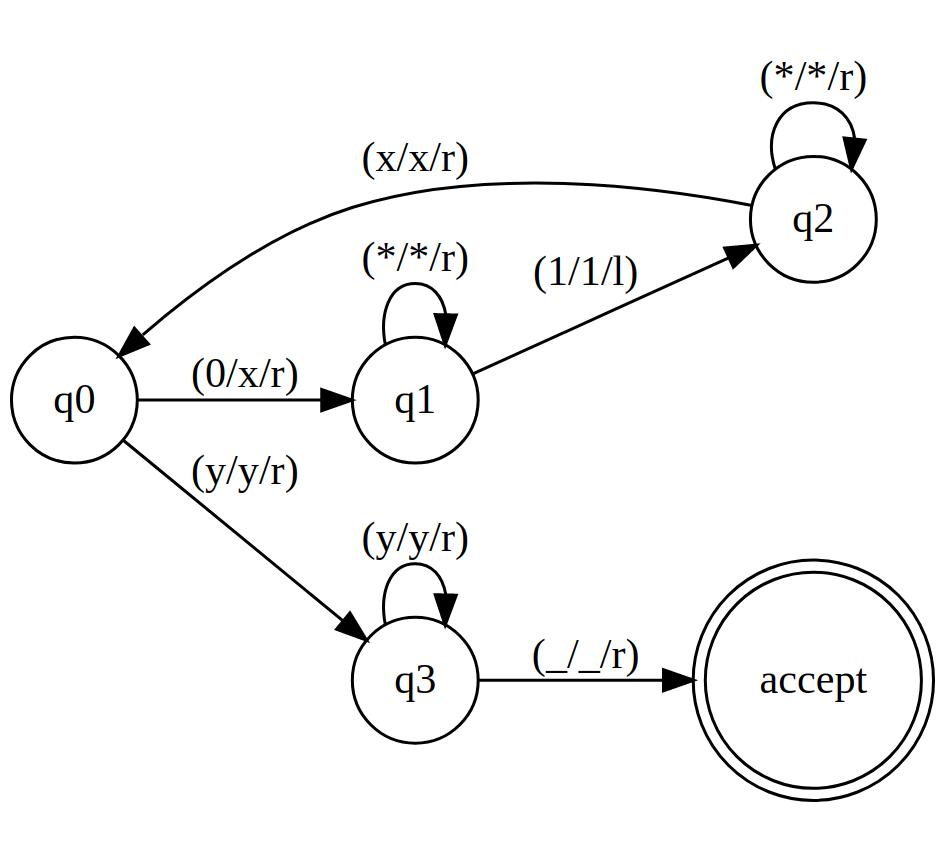
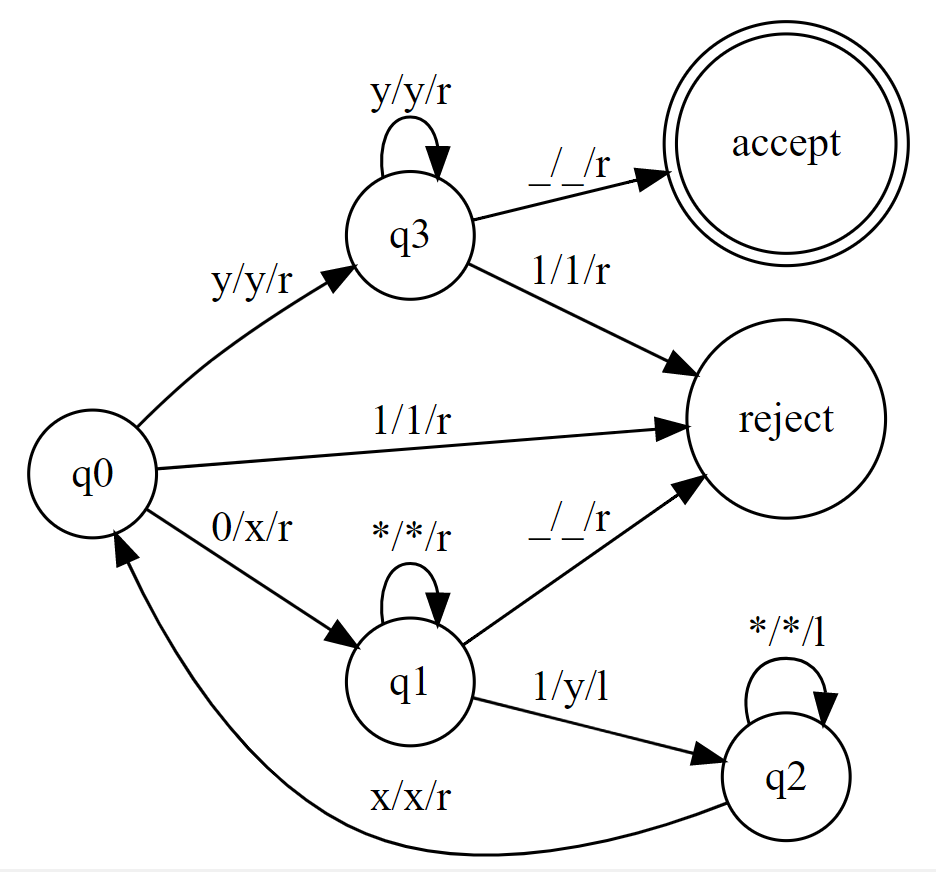
fix diagramas @ Questao-01/02/03

diff --git a/README.md b/README.md
@@ -69,3 +69,5 @@ Entrada|Saída  |
 0      |1
 011    |111
 0111111|1111111
+
+<b>Diagramas feitos utilizando [Graphviz Online](https://dreampuf.github.io/GraphvizOnline/).<b>
